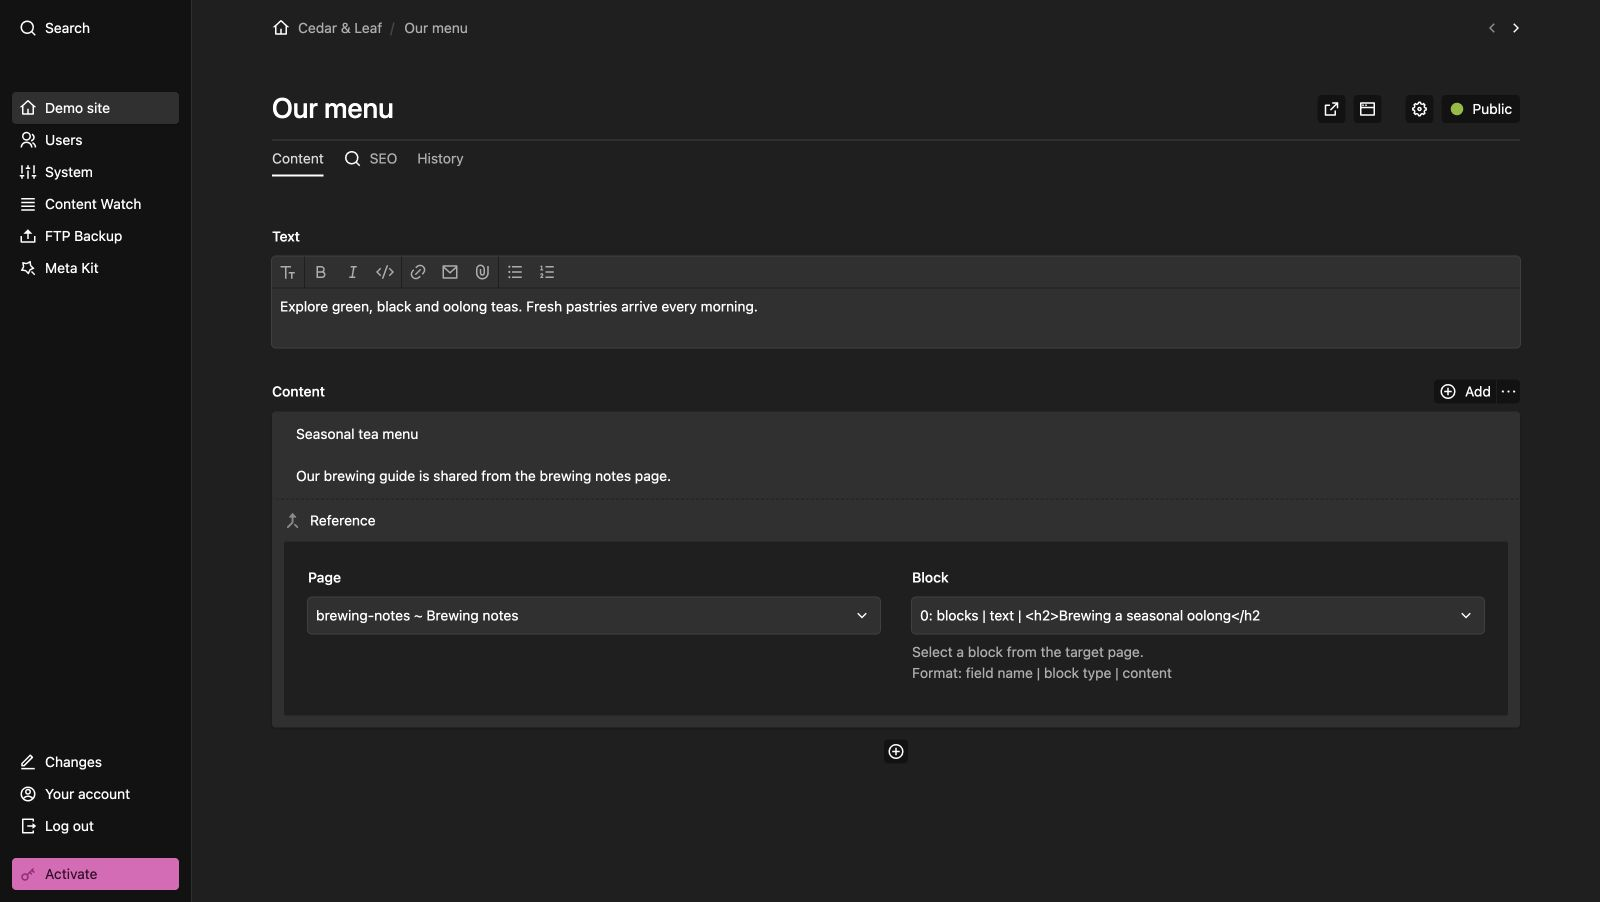
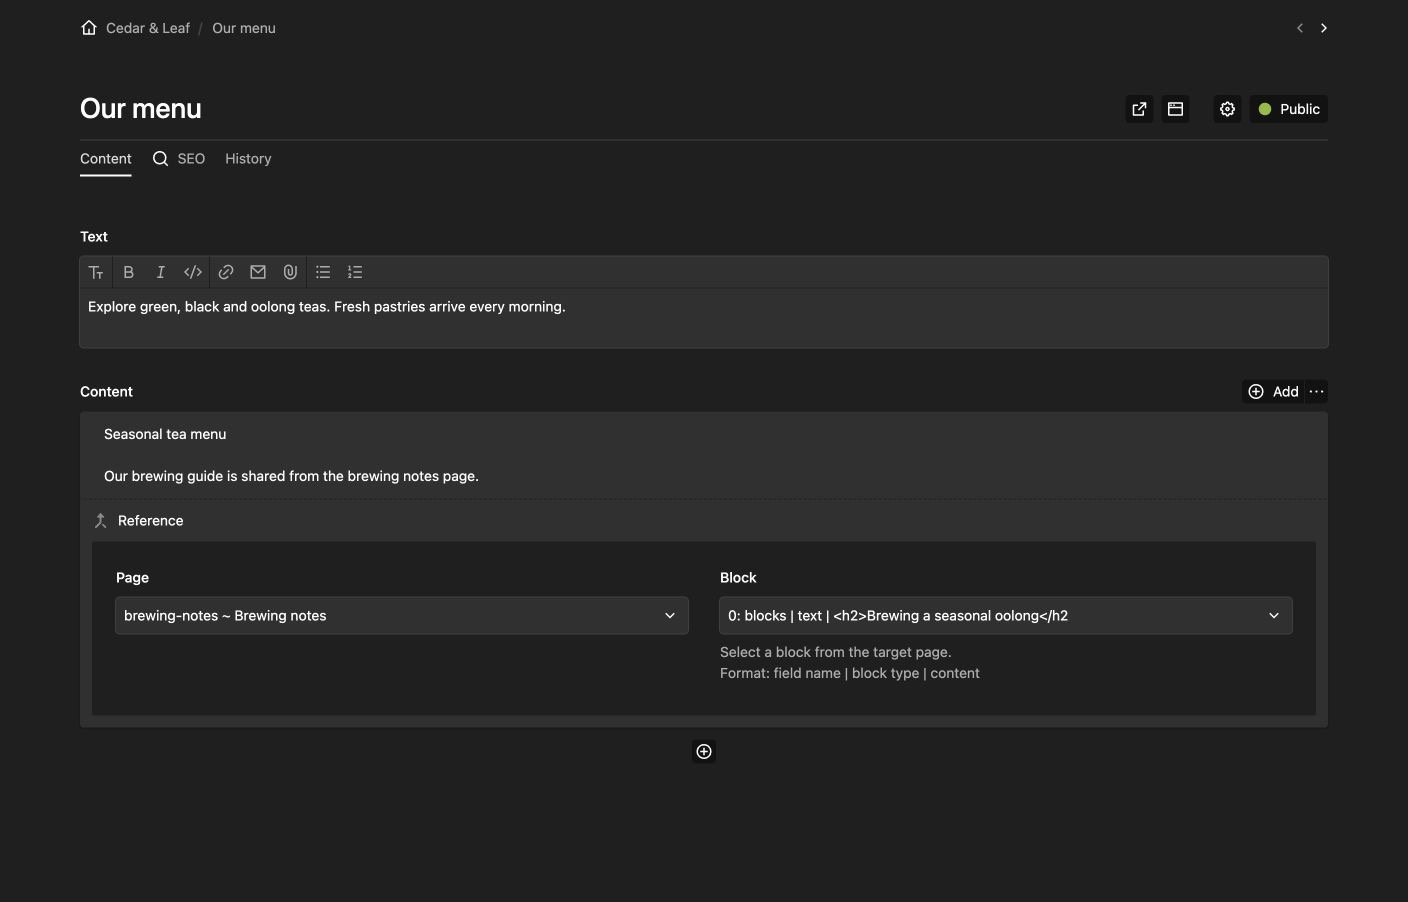
docs: refine screenshots and remove Panel sidebar

diff --git a/README.md b/README.md
@@ -69,7 +69,7 @@ This plugin is licensed under the [MIT License](LICENSE)
 
 ## Screenshots
 
-Screenshots use fictional Cedar & Leaf sample content at 1600 × 902 pixels. The main image uses the light theme.
+Screenshots use sample content at 1408 × 902 pixels. Panel views are cropped to the content area. The main image uses the light theme.
 
 | View | Light | Dark |
 | --- | --- | --- |
